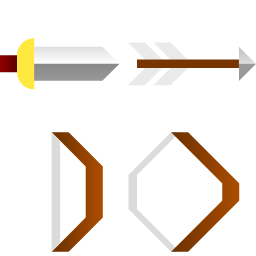
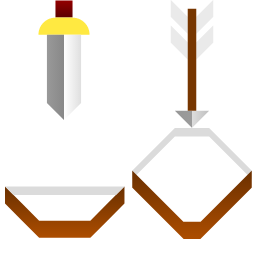
no message

diff --git a/Assets/Scripts/playerControler.cs b/Assets/Scripts/playerControler.cs
@@ -11,6 +11,8 @@ public class playerControler : MonoBehaviour {
     public string[] traversable;
     public DieManager manager;
     public GameObject pathArrowPrefab;
+    public GameObject weapon;
+    public Sprite[] weaponSprites;
 
     public static playerControler thePlayer;
 
@@ -20,8 +22,8 @@ public class playerControler : MonoBehaviour {
     }
 
     public spritelist[] sprites;
-    public int dir = 0;
-    public int mode = 0;
+    public int dir = 0;  // 0 = down, 1 = left, 2 = up, 3 = right
+    public int mode = 0; // 1 = normal, 2 = carrying box, 3 = attacking
 
     void Start() {
         transform.localPosition = new Vector3(Mathf.Floor(transform.localPosition.x) + 0.5f, Mathf.Floor(transform.localPosition.y) + 0.5f, transform.localPosition.z);
@@ -78,7 +80,7 @@ public class playerControler : MonoBehaviour {
                     break;
                 case 2:
                     action(i.dieData.y);
-                    yield return new WaitForSeconds(0.25f);
+                    yield return new WaitForSeconds(i.dieData.y switch { 1 => 0.5f, 2 => 0.75f, 5 => 1f, _ => 0.25f });
                     break;
             }
             manager.RemoveFrontDie();
@@ -146,6 +148,84 @@ public class playerControler : MonoBehaviour {
             case 6:
                 break;
         }
+        updateSprite();
+    }
+
+    IEnumerator stabOneAnim() {
+        int tempMode = mode;
+        mode = 2;
+        updateSprite();
+        Vector2 currentDir = dir switch { 0 => Vector2.down, 1 => Vector2.left, 2 => Vector2.up, _ => Vector2.right };
+        GameObject sword = Instantiate(weapon, transform);
+        sword.transform.Rotate(new Vector3(0, 0, dir * -90));
+        sword.transform.localPosition = Vector2.zero + (currentDir * 0.5f);
+        float animTimer = 0;
+        while (animTimer < 0.5f) {
+            sword.transform.localPosition = Vector2.zero + (currentDir * Mathf.Sin(animTimer * 5f));
+            animTimer += Time.deltaTime;
+            yield return new WaitForEndOfFrame();
+        }
+        Destroy(sword);
+        mode = tempMode;
+        updateSprite();
+    }
+
+    IEnumerator stabLineAnim() {
+        int tempMode = mode;
+        mode = 2;
+        updateSprite();
+        Vector2 currentDir = dir switch { 0 => Vector2.down, 1 => Vector2.left, 2 => Vector2.up, _ => Vector2.right };
+        GameObject bow = Instantiate(weapon, transform);
+        GameObject arrow = Instantiate(weapon, transform);
+        SpriteRenderer bowSprite = bow.GetComponent<SpriteRenderer>();
+        SpriteRenderer arrowSprite = arrow.GetComponent<SpriteRenderer>();
+        bowSprite.sprite = weaponSprites[3];
+        arrowSprite.sprite = weaponSprites[1];
+        bow.transform.Rotate(new Vector3(0, 0, dir * -90));
+        arrow.transform.Rotate(new Vector3(0, 0, dir * -90));
+        bow.transform.localPosition = Vector2.zero + currentDir;
+        arrow.transform.localPosition = Vector2.zero + currentDir * 1.25f;
+        bool phase = false;
+        float animTimer = 0;
+        while (animTimer < 0.75f) {
+            if (animTimer < 0.5f)
+                arrow.transform.localPosition = Vector2.zero + currentDir * (1.25f - (animTimer * 0.5f));
+            else {
+                if (!phase) {
+                    bowSprite.sprite = weaponSprites[2];
+                    arrow.transform.localPosition = Vector2.zero + currentDir * Mathf.Lerp(1, 5, (animTimer - 0.5f) * 4);
+                }
+            }
+            animTimer += Time.deltaTime;
+            yield return new WaitForEndOfFrame();
+        }
+        Destroy(bow);
+        Destroy(arrow);
+        mode = tempMode;
+        updateSprite();
+    }
+
+    IEnumerator stabSwooshAnim() {
+        int tempMode = mode;
+        mode = 2;
+        updateSprite();
+        Vector2 currentDir = dir switch { 0 => Vector2.down, 1 => Vector2.left, 2 => Vector2.up, _ => Vector2.right };
+        GameObject sword = Instantiate(weapon, transform);
+        float initialRotation = dir * -90;
+        sword.transform.Rotate(new Vector3(0, 0, dir * -90));
+        sword.transform.localPosition = Vector2.zero + currentDir;
+        float animTimer = 0;
+        while (animTimer < 1) {
+            //sword.transform.localPosition = Vector2.zero + (currentDir * Mathf.Sin(animTimer * 5f));
+            //sword.transform.RotateAround(transform.localPosition, Vector3.up, Mathf.Pow(Mathf.Abs(animTimer - 1) * 2, 2) * 0.5f);
+            //sword.transform.localPosition = (transform.localPosition - sword.transform.localPosition).normalized;
+            sword.transform.localRotation = Quaternion.Euler(0, 0, initialRotation + Mathf.Lerp(0, 360, animTimer));
+            sword.transform.localPosition = new Vector2(Mathf.Sin(currentDir.x * animTimer * (Mathf.PI * 2)), Mathf.Cos(currentDir.y * animTimer * (Mathf.PI * 2)));
+            animTimer += Time.deltaTime;
+            yield return new WaitForEndOfFrame();
+        }
+        Destroy(sword);
+        mode = tempMode;
         updateSprite();
     }
 
@@ -285,6 +365,7 @@ public class playerControler : MonoBehaviour {
     }
 
     void stabOne() {
+        StartCoroutine(stabOneAnim());
         switch (dir) {
             case 0:
                 stabLocally(Vector2Int.down);
@@ -302,6 +383,7 @@ public class playerControler : MonoBehaviour {
     }
 
     void stabLine() {
+        StartCoroutine(stabLineAnim());
         for (int i = 1; i < 6; i++) {
             switch (dir) {
                 case 0:
@@ -321,6 +403,7 @@ public class playerControler : MonoBehaviour {
     }
 
     void stabSwoosh() {
+        StartCoroutine(stabSwooshAnim());
         stabLocally(new Vector2Int(0, -1));
         stabLocally(new Vector2Int(-1, -1));
         stabLocally(new Vector2Int(-1, 0));
